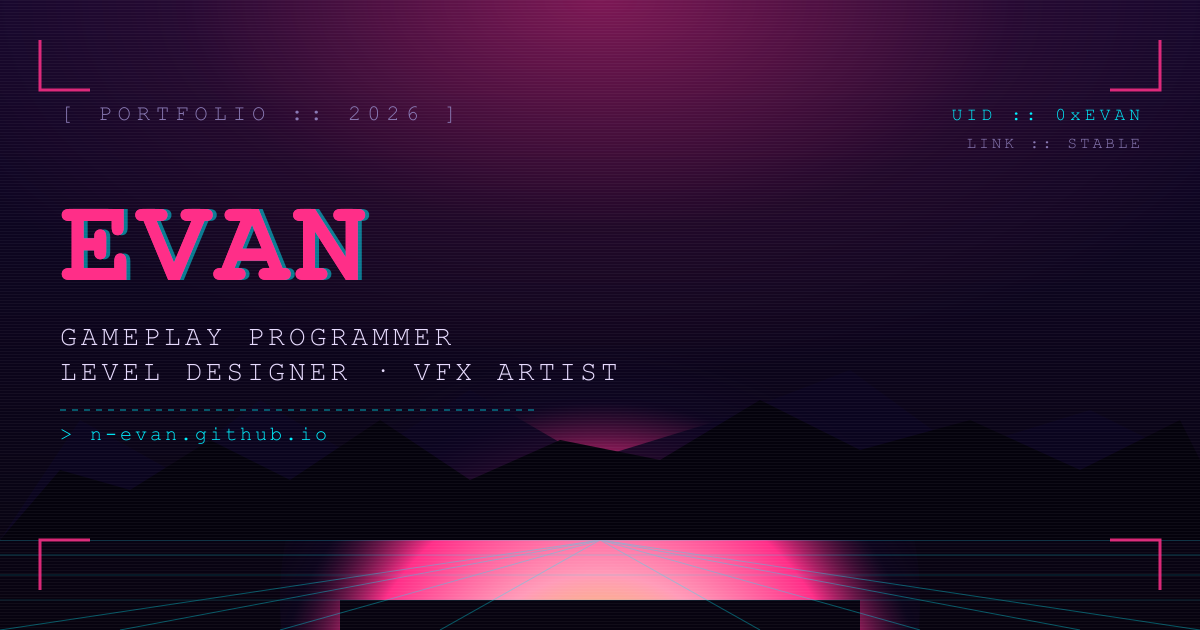
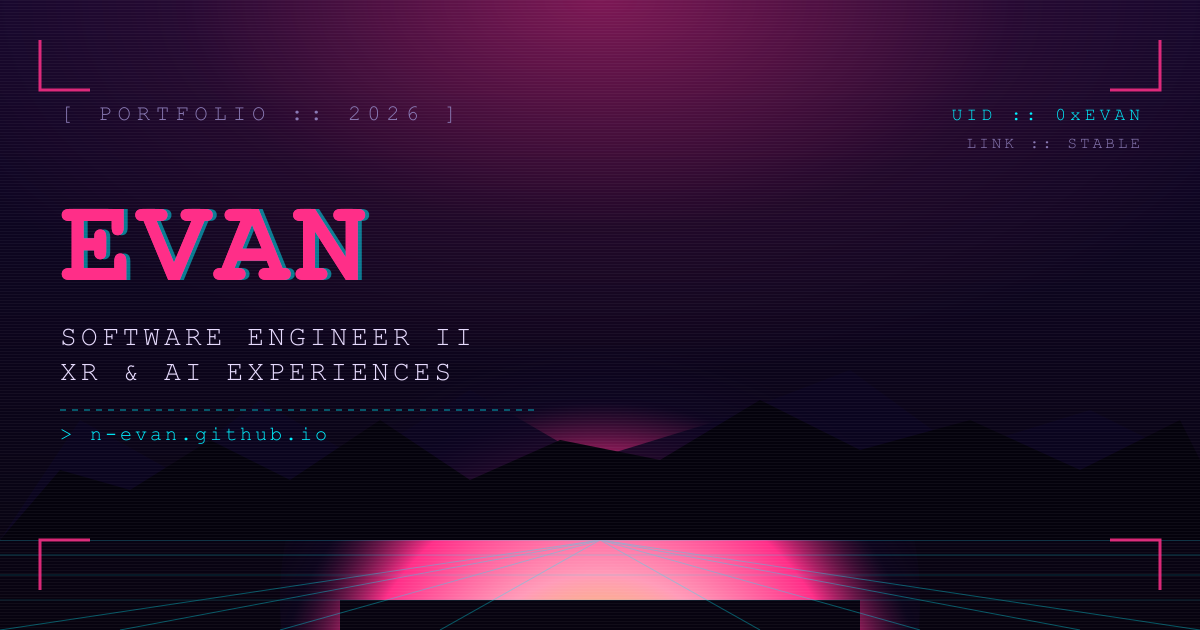
content: official job titles, education and product-engineering status
Career log now lists the four Brain Station 23 PLC roles with their exact
titles and months (Software Engineer Trainee through Software Engineer
II), BRAC University for the B.Sc. ending Jan 2022, and the Unilever
Marvel 3 team as 9. The availability badge, hero line, profile, bio, OG
image and feed descriptions follow the new titles.

Changed region(s): [[0.0308, 0.573, 0.5242, 0.6032], [0.0617, 0.5127, 0.4008, 0.5429]]

diff --git a/tests/career.test.ts b/tests/career.test.ts
@@ -7,7 +7,7 @@ const entries = JSON.parse(readFileSync("src/data/career.json", "utf8"));
 describe("career.json", () => {
   it("is a non-empty array", () => {
     expect(Array.isArray(entries)).toBe(true);
-    expect(entries.length).toBe(9);
+    expect(entries.length).toBe(11);
   });
 
   it("gives every entry a unique id for the file() loader", () => {
@@ -25,15 +25,21 @@ describe("career.json", () => {
     }
   });
 
-  it("preserves the newest-first order from the original component", () => {
-    expect(entries[0].title).toBe("Unilever Marvel 3");
-    expect(entries[0].stamp).toBe("2025");
+  it("keeps newest-first order", () => {
+    expect(entries[0].title).toBe("Software Engineer II");
+    expect(entries[0].stamp).toBe("JAN 2025 — PRESENT");
     expect(entries.at(-1).title).toBe("FIRST GAME // ABYSS CRAWLER");
   });
 
-  it("keeps the role entry's org", () => {
-    const role = entries.find((e: { kind: string }) => e.kind === "role");
-    expect(role.org).toBe("Studio-23 · Brain Station 23");
+  it("lists the four official job titles, exactly, at the employer of record", () => {
+    const roles = entries.filter((e: { kind: string }) => e.kind === "role");
+    expect(roles.map((r: { title: string }) => r.title)).toEqual([
+      "Software Engineer II",
+      "Software Engineer",
+      "Associate Software Engineer",
+      "Software Engineer Trainee",
+    ]);
+    expect(roles.every((r: { org: string }) => r.org === "Brain Station 23 PLC")).toBe(true);
   });
 });
 

diff --git a/src/pages/rss.xml.ts b/src/pages/rss.xml.ts
@@ -10,7 +10,7 @@ export async function GET(context: { site?: URL }) {
   return rss({
     title: "Md. Nurusshafi Evan — Devlog",
     description:
-      "Working notes from a gameplay programmer: post-mortems, design breakdowns, tooling experiments.",
+      "Working notes from a software engineer: post-mortems, design breakdowns, tooling experiments.",
     site: context.site ?? "https://n-evan.github.io",
     items: sorted.map((p) => ({
       title: p.data.title,

diff --git a/src/data/status.ts b/src/data/status.ts
@@ -12,7 +12,7 @@ export const status: {
   message?: string;
 } = {
   current: "available",
-  message: "Open to gameplay programming roles, contract work, and collaborations.",
+  message: "Open to product engineering roles and collaborations.",
 };
 
 export const STATE_META: Record<
